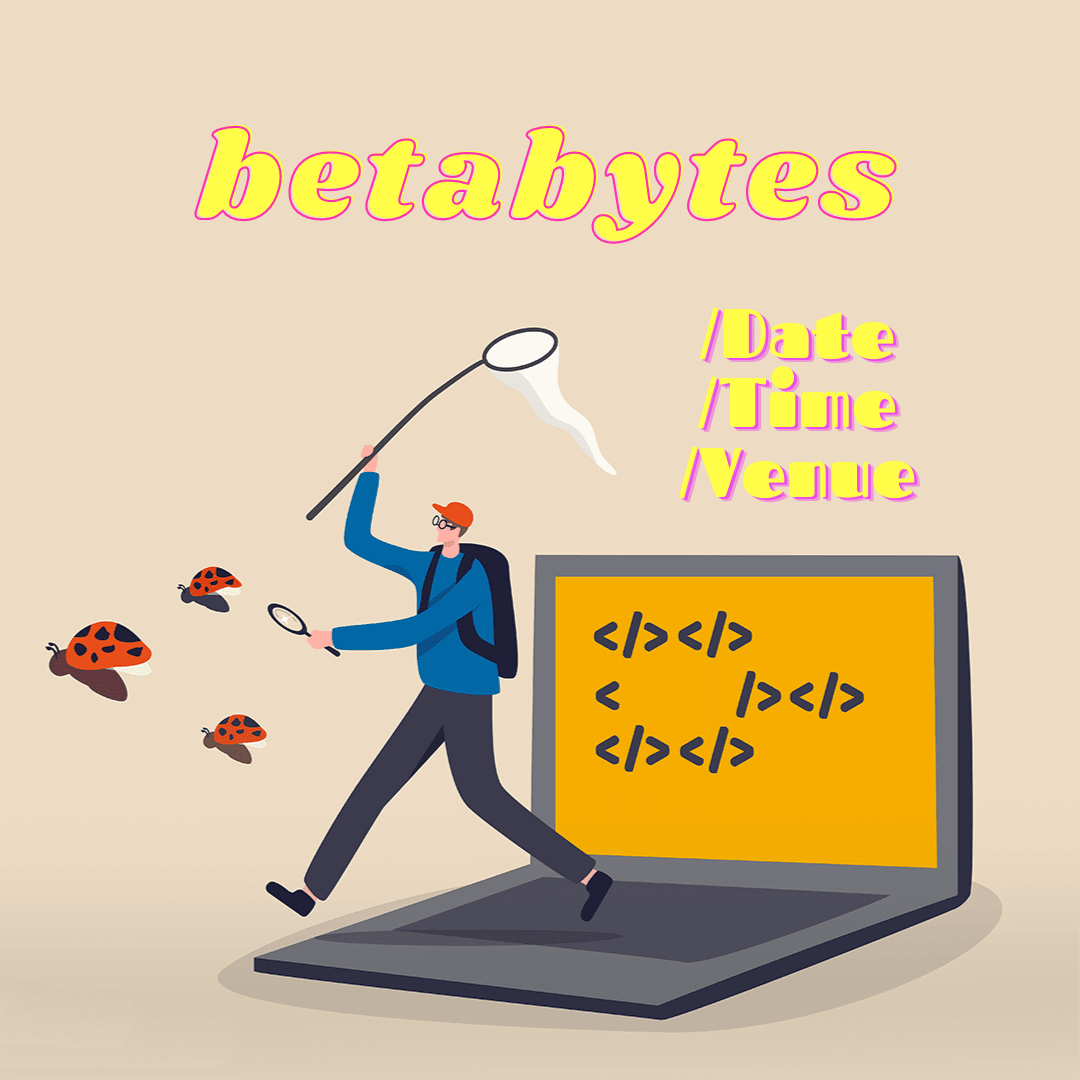
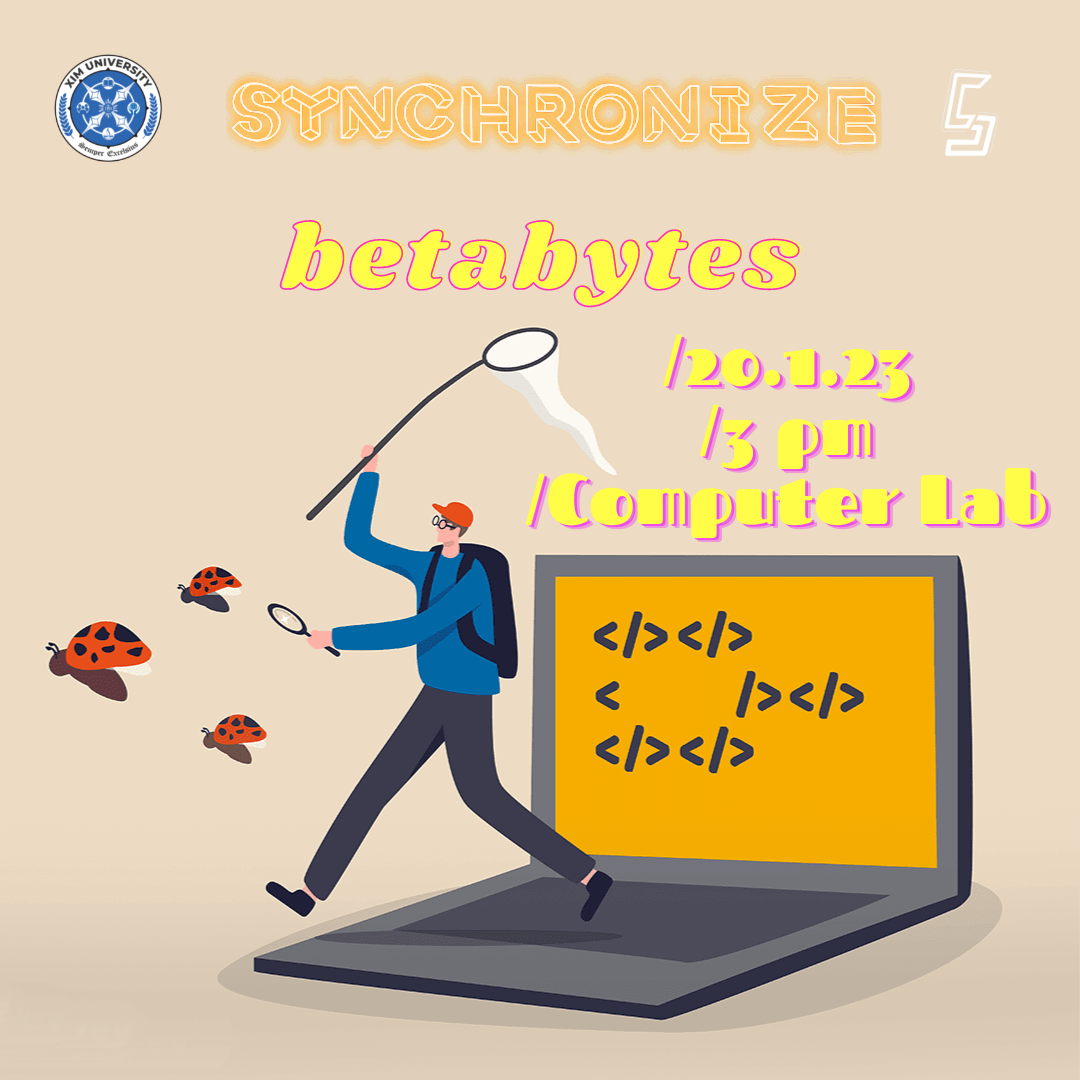
updated posters

Changed region(s): [[0.1833, 0.0611, 0.9778, 0.5194], [0.0306, 0.0306, 0.1528, 0.1528], [0.8556, 0.0611, 0.9167, 0.1528]]

diff --git a/Technical events page/index.html b/Technical events page/index.html
@@ -221,9 +221,9 @@
           />
           <div class="item-title">
             <p>Debugging Contest</p>
-            <p>Date</p>
+            <p>20.1.23</p>
           </div>
-          <p class="item-date">time or place</p>
+          <p class="item-date">3pm -Computer Lab</p>
         </div>
         <div class="item">
           <img
@@ -233,35 +233,35 @@
           />
           <div class="item-title">
             <p>Obstacle Course</p>
-            <p>Date</p>
+            <p>21.01.23</p>
           </div>
-          <p class="item-date">time and place</p>
+          <p class="item-date">2pm -Football Ground</p>
         </div>
         <div class="item">
           <img
             class="item-img"
-            src="https://i.ibb.co/VLfJ41h/MR-ROBOT-two-cyberpunk-cowboys-dueling-6ae4203d-3539-4033-a9d9-80d747ac6498.png"
+            src="/Techfest-OfficialSite/Technical events page/images/TQ.png"
             alt="unsplash-OG44d93i-NJk"
             border="0"
           />
           <div class="item-title">
-            <p>Workshop</p>
-            <p>Date</p>
+            <p>Tech Quiz</p>
+            <p>20.01.23</p>
           </div>
-          <p class="item-date">time or place</p>
+          <p class="item-date">1:30pm -CR314</p>
         </div>
         <div class="item">
           <img
             class="item-img"
-            src="/Techfest-OfficialSite/Technical events page/images/exibit.png"
+            src="/Techfest-OfficialSite/Technical events page/images/XB.png"
             alt="unsplash-OG44d93i-NJk"
             border="0"
           />
           <div class="item-title">
             <p>Exhibition</p>
-            <p>Date</p>
+            <p>22.01.23</p>
           </div>
-          <p class="item-date">time or place</p>
+          <p class="item-date">11am -Exam Hall</p>
         </div>
         <div class="item">
           <img
@@ -272,9 +272,9 @@
           />
           <div class="item-title">
             <p>Treasure Hunt</p>
-            <p>Date</p>
+            <p>21.01.23</p>
           </div>
-          <p class="item-date">time or place</p>
+          <p class="item-date">2pm -Across Campus</p>
         </div>
         <div class="item">
           <img
@@ -285,9 +285,9 @@
           />
           <div class="item-title">
             <p>Pattern Contest</p>
-            <p>Date</p>
+            <p>20.01.23</p>
           </div>
-          <p class="item-date">Time and place</p>
+          <p class="item-date">3pm -Computer Lab</p>
         </div>
         <div class="item">
           <img
@@ -298,9 +298,9 @@
           />
           <div class="item-title">
             <p>AI art</p>
-            <p>Date</p>
+            <p>All Day</p>
           </div>
-          <p class="item-date">time or place</p>
+          <p class="item-date">College Hours</p>
         </div>
       </div>
      
